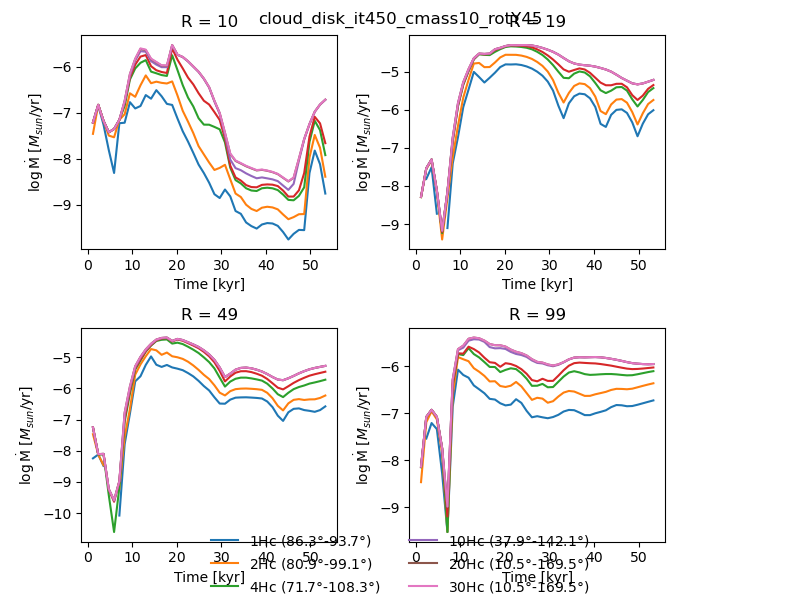
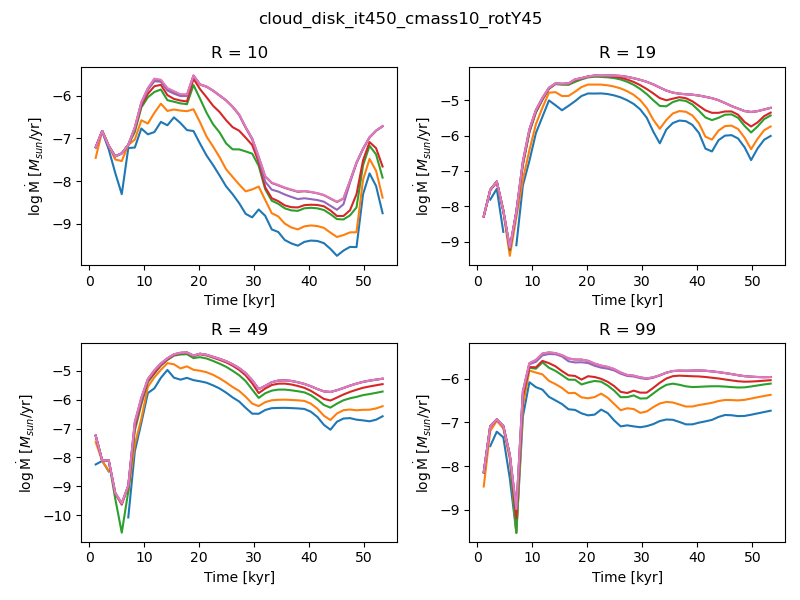
ferf

diff --git a/accretion.py b/accretion.py
@@ -284,10 +284,10 @@ def main():
         axes[plot_counter].set_title(fr"R = {int(r_acc/au)}")
         handles, labels = axes[plot_counter].get_legend_handles_labels()
         plot_counter += 1
-    
-    fig.tight_layout(rect=[0, 0, 0.85, 1])   
-    fig.legend(handles, labels, loc="lower center", bbox_to_anchor=(0.5, -0.05), ncol=2, frameon=False)
+       
+    fig.legend(handles, labels, loc="upper left", bbox_to_anchor=(1.05, 1.), borderaxespad=0., frameon=False)
     fig.suptitle(f"{sim_name}")  
+    fig.tight_layout()
     plt.savefig(f'{fig_imgs}/logMdot_vs_t_all_radii_all_zmax.png')
     plt.show()
     wfrbekgke
